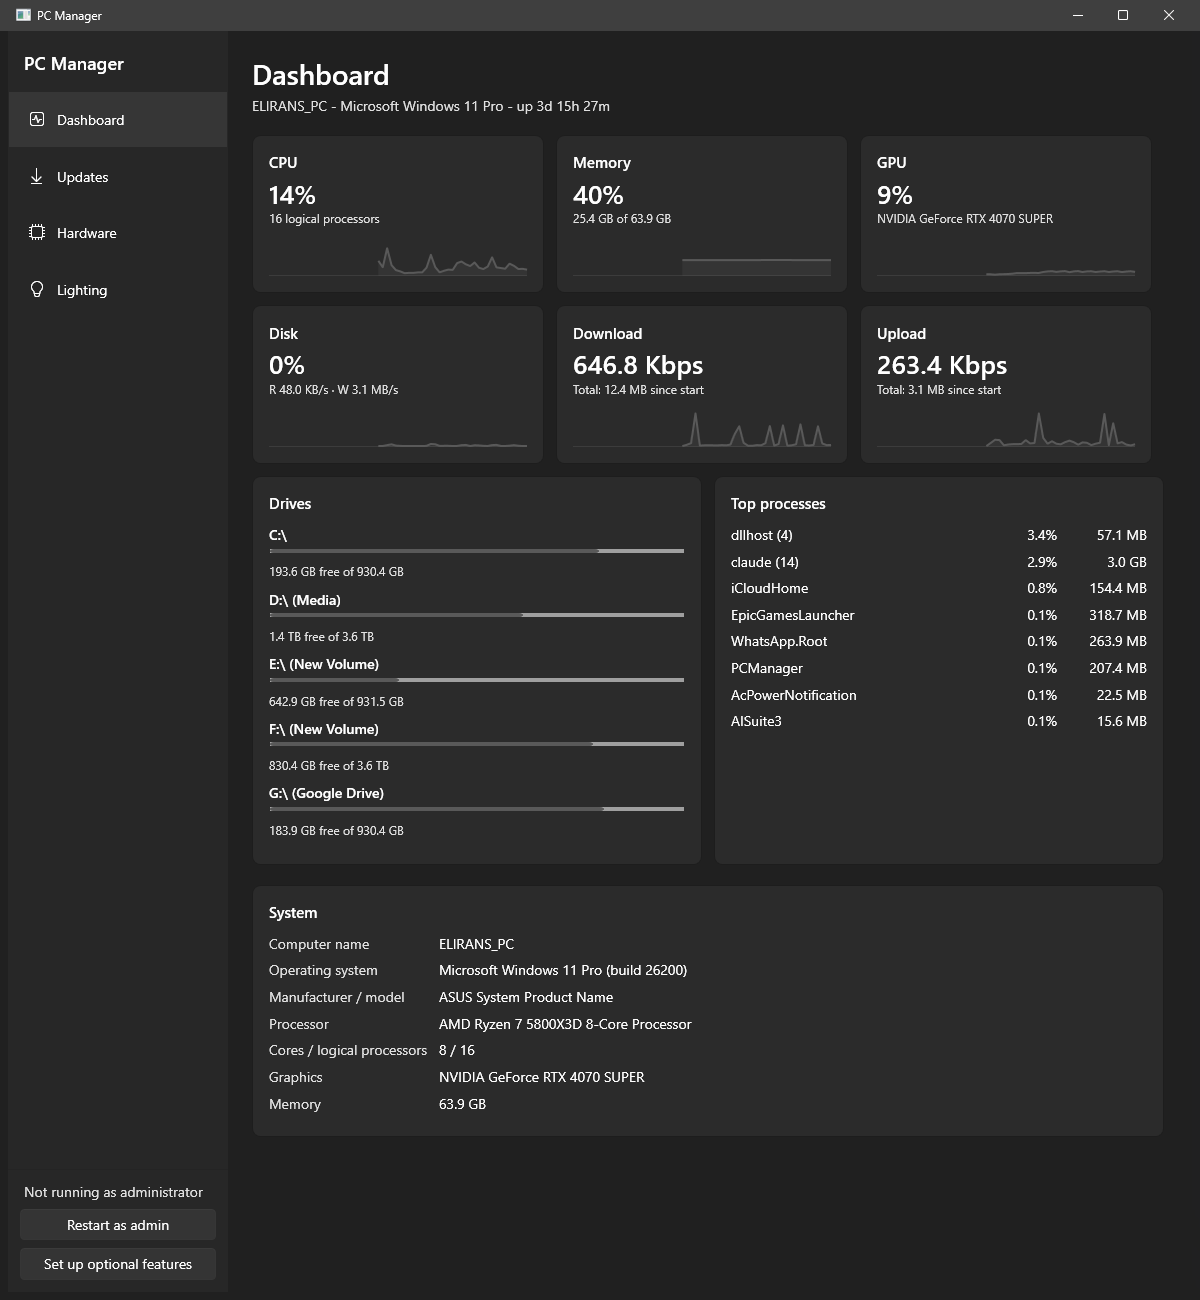
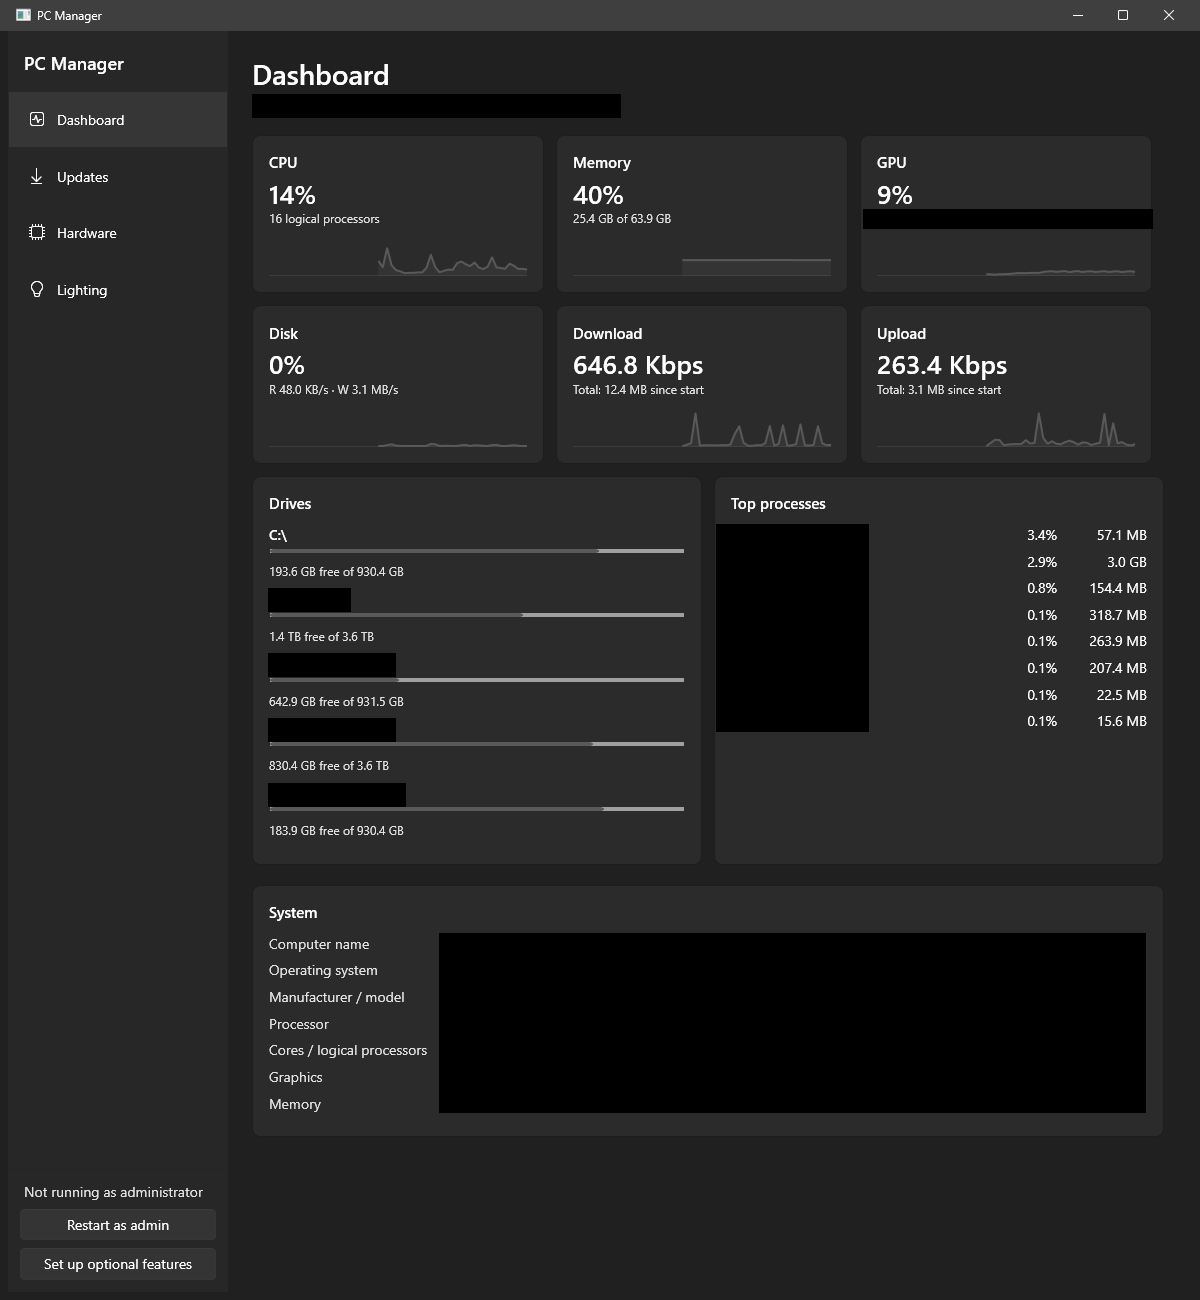
docs: replace screenshots with demo data
docs/screenshots/*.png showed the maintainer's real computer name
(ELIRANS_PC), motherboard/CPU model, drive labels, running processes, and
installed app names/ids. Adds a DEBUG-only "demo data" mode
(PCMANAGER_DEMO_DATA=1, see CONTRIBUTING.md's new "Screenshots" section)
that swaps ISystemInfoProvider/IDriveMonitor/IProcessMonitor for fake
implementations under src/PCManager.Core/Monitoring/Demo/, entirely inside
#if DEBUG so it does not exist in a Release build.

Since capturing fresh screenshots from that demo mode isn't possible in
this environment, redacted the existing checked-in screenshots instead
(black boxes over computer name, hardware model, drive labels, process
list and installed app names/ids in dashboard.png, dashboard-900x600.png,
hardware.png, lighting.png and updates.png), cropped first-run.png down to
just the app window (it previously captured the whole desktop, including
a private GitHub repo open in the browser behind it), and removed
after-skip.png and foundation.png (unreferenced anywhere and superseded by
current screenshots). get-help.png was already redacted and is unchanged.

diff --git a/src/PCManager.Core/Monitoring/MonitoringServiceCollectionExtensions.cs b/src/PCManager.Core/Monitoring/MonitoringServiceCollectionExtensions.cs
@@ -7,6 +7,21 @@ public static class MonitoringServiceCollectionExtensions
 {
     public static IServiceCollection AddMonitoring(this IServiceCollection services)
     {
+#if DEBUG
+        // Non-shipping (DEBUG-only) escape hatch for capturing documentation screenshots without
+        // exposing the real machine's computer name, hardware, drives or running processes - see
+        // Monitoring.Demo.DemoDataMode and CONTRIBUTING.md's "Screenshots" section. Has no effect,
+        // and the branch below does not exist at all, in a Release build.
+        if (Demo.DemoDataMode.IsEnabled)
+        {
+            services.AddSingleton<ISystemInfoProvider, Demo.DemoSystemInfoProvider>();
+            services.AddSingleton<IPerformanceSampler, PerformanceSampler>();
+            services.AddSingleton<IProcessMonitor, Demo.DemoProcessMonitor>();
+            services.AddSingleton<IDriveMonitor, Demo.DemoDriveMonitor>();
+            services.AddSingleton<IRestartDetector, RestartDetector>();
+            return services;
+        }
+#endif
         services.AddSingleton<ISystemInfoProvider, SystemInfoProvider>();
         services.AddSingleton<IPerformanceSampler, PerformanceSampler>();
         services.AddSingleton<IProcessMonitor, ProcessMonitor>();

diff --git a/src/PCManager.Core/Monitoring/Demo/DemoDataMode.cs b/src/PCManager.Core/Monitoring/Demo/DemoDataMode.cs
@@ -1,0 +1,23 @@
+namespace PCManager.Core.Monitoring.Demo;
+
+/// <summary>Gate for the DEBUG-only "demo data" mode: when enabled, the Dashboard's monitoring
+/// services (<see cref="ISystemInfoProvider"/>, <see cref="IDriveMonitor"/>,
+/// <see cref="IProcessMonitor"/>) are swapped for fake ones reporting made-up machine identity,
+/// drives and processes, so screenshots for documentation never show the real machine's computer
+/// name, hardware, drive labels or running/installed apps.
+///
+/// Enabled by setting the environment variable <c>PCMANAGER_DEMO_DATA=1</c> before launching a
+/// DEBUG build of PC Manager (<c>dotnet run --project src/PCManager.App</c> - the default
+/// configuration is Debug). Has no effect - and does not exist in the compiled output - in a
+/// Release build: everything here is inside <c>#if DEBUG</c>, so this is not a shipping feature.
+/// See CONTRIBUTING.md's "Screenshots" section for how to use this to (re)capture documentation
+/// screenshots.</summary>
+internal static class DemoDataMode
+{
+#if DEBUG
+    public static bool IsEnabled { get; } =
+        Environment.GetEnvironmentVariable("PCMANAGER_DEMO_DATA") == "1";
+#else
+    public const bool IsEnabled = false;
+#endif
+}

diff --git a/src/PCManager.Core/Monitoring/Demo/DemoProcessMonitor.cs b/src/PCManager.Core/Monitoring/Demo/DemoProcessMonitor.cs
@@ -1,0 +1,23 @@
+#if DEBUG
+namespace PCManager.Core.Monitoring.Demo;
+
+/// <summary>DEBUG-only fake <see cref="IProcessMonitor"/> used when
+/// <see cref="DemoDataMode.IsEnabled"/> is set - see <see cref="DemoDataMode"/>.</summary>
+internal sealed class DemoProcessMonitor : IProcessMonitor
+{
+    private static readonly IReadOnlyList<ProcessGroupSnapshot> Processes =
+    [
+        new ProcessGroupSnapshot("Demo Browser", 6, 3.4, 57_100_000),
+        new ProcessGroupSnapshot("Demo Chat App", 2, 2.9, 320_000_000),
+        new ProcessGroupSnapshot("Demo Media Player", 1, 0.8, 154_400_000),
+        new ProcessGroupSnapshot("Demo Game Launcher", 1, 0.4, 318_700_000),
+        new ProcessGroupSnapshot("Demo Cloud Sync", 1, 0.1, 263_900_000),
+        new ProcessGroupSnapshot("PCManager", 1, 0.1, 207_400_000),
+        new ProcessGroupSnapshot("Demo Background Service", 1, 0.1, 22_500_000),
+        new ProcessGroupSnapshot("Demo Utility", 1, 0.1, 15_600_000),
+    ];
+
+    public IReadOnlyList<ProcessGroupSnapshot> SampleTop(int count) =>
+        Processes.Take(count).ToList();
+}
+#endif

diff --git a/src/PCManager.Core/Monitoring/Demo/DemoSystemInfoProvider.cs b/src/PCManager.Core/Monitoring/Demo/DemoSystemInfoProvider.cs
@@ -1,0 +1,22 @@
+#if DEBUG
+namespace PCManager.Core.Monitoring.Demo;
+
+/// <summary>DEBUG-only fake <see cref="ISystemInfoProvider"/> used when
+/// <see cref="DemoDataMode.IsEnabled"/> is set - see <see cref="DemoDataMode"/>.</summary>
+internal sealed class DemoSystemInfoProvider : ISystemInfoProvider
+{
+    public Task<SystemInfo> GetAsync(CancellationToken cancellationToken) =>
+        Task.FromResult(new SystemInfo(
+            ComputerName: "DEMO-PC",
+            OsCaption: "Microsoft Windows 11 Pro",
+            OsBuild: "26200",
+            Manufacturer: "Contoso",
+            Model: "Demo Desktop 3000",
+            CpuName: "Demo CPU X8 5800",
+            PhysicalCores: 8,
+            LogicalProcessors: 16,
+            GpuNames: ["Demo Graphics 4070"],
+            TotalRamBytes: 64L * 1024 * 1024 * 1024,
+            LastBootTimeUtc: DateTime.UtcNow.AddDays(-3)));
+}
+#endif

diff --git a/src/PCManager.Core/Monitoring/Demo/DemoDriveMonitor.cs b/src/PCManager.Core/Monitoring/Demo/DemoDriveMonitor.cs
@@ -1,0 +1,17 @@
+#if DEBUG
+namespace PCManager.Core.Monitoring.Demo;
+
+/// <summary>DEBUG-only fake <see cref="IDriveMonitor"/> used when
+/// <see cref="DemoDataMode.IsEnabled"/> is set - see <see cref="DemoDataMode"/>.</summary>
+internal sealed class DemoDriveMonitor : IDriveMonitor
+{
+    private static readonly IReadOnlyList<DriveSnapshot> Drives =
+    [
+        new DriveSnapshot(@"C:\", null, "NTFS", 930_000_000_000, 190_000_000_000, IsLow: false),
+        new DriveSnapshot(@"D:\", "Data", "NTFS", 2_000_000_000_000, 900_000_000_000, IsLow: false),
+        new DriveSnapshot(@"E:\", "Backup", "NTFS", 1_000_000_000_000, 60_000_000_000, IsLow: true),
+    ];
+
+    public IReadOnlyList<DriveSnapshot> GetDrives() => Drives;
+}
+#endif

diff --git a/CONTRIBUTING.md b/CONTRIBUTING.md
@@ -40,6 +40,29 @@ Both must pass with zero warnings and zero errors before requesting review.
 - PRs are squash-merged after review; the branch is deleted after merge.
 - CI (`.github/workflows/ci.yml`) must be green before merge.
 
+## Screenshots
+
+`docs/screenshots/` holds the screenshots used in documentation. **Never commit a screenshot taken
+against your real PC** - it will show your real computer name, drive labels, installed apps and
+hardware. Instead, capture screenshots using the DEBUG-only demo data mode:
+
+```powershell
+$env:PCMANAGER_DEMO_DATA = "1"
+dotnet run -c Debug --project src/PCManager.App
+```
+
+This swaps the Dashboard's system-info, drive and process-list services for fake ones reporting
+made-up data (see `src/PCManager.Core/Monitoring/Demo/` and
+`MonitoringServiceCollectionExtensions.AddMonitoring`) - everything else in the app runs normally.
+The check and the fake data only exist in a DEBUG build (`#if DEBUG`); a Release build - what CI
+compiles and what a release ships - is unaffected and does not contain this code at all. Unset the
+environment variable (or just close the terminal) to go back to showing your real data next time
+you run PC Manager for actual use.
+
+If a page you're screenshotting shows something demo data doesn't cover yet (e.g. a new feature's
+own machine-identifying data), extend `AddMonitoring`'s demo branch and the relevant `Demo.*`
+fake, rather than redacting a real screenshot after the fact.
+
 ## Code organization
 
 See `docs/specs/00-engineering-standards.md` for the full solution layout and code quality gates.

diff --git a/CHANGELOG.md b/CHANGELOG.md
@@ -8,6 +8,13 @@ The format is based on [Keep a Changelog](https://keepachangelog.com/en/1.1.0/).
 
 ### Added
 
+- Screenshots: a DEBUG-only "demo data" mode (`PCMANAGER_DEMO_DATA=1`, see CONTRIBUTING.md) that
+  swaps the Dashboard's system-info, drive and process-list services for fake ones, so
+  documentation screenshots no longer need to show a real PC's computer name, hardware, drive
+  labels or installed apps. Does not exist in a Release build. Replaced every screenshot in
+  `docs/screenshots/` that showed real machine-identifying data with a redacted version, cropped
+  `first-run.png` down to just the app window (it previously captured the whole desktop), and
+  removed two obsolete/unused screenshots (`after-skip.png`, `foundation.png`).
 - Installer and releases: a self-contained, single-file win-x64 publish profile; an Inno Setup 6
   script (`installer/PCManager.iss`) that installs PC Manager per-machine to
   `Program Files\PC Manager` with Start menu/desktop/startup shortcuts, an optional Components
